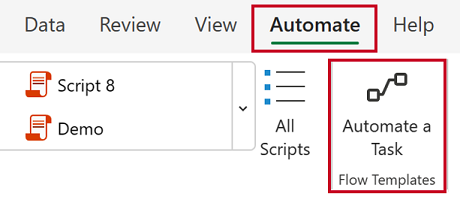
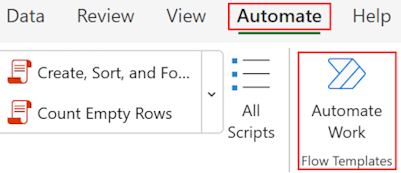
workbook

diff --git a/articles/flows-excel.md b/articles/flows-excel.md
@@ -1,7 +1,7 @@
 ---
 title: Use flows with Excel for the web
 description: Learn how to use the flows feature in Excel for the web.
-ms.date: 06/30/2023
+ms.date: 07/20/2023
 author: sbasi19
 contributors:
   - sbasi19
@@ -29,7 +29,7 @@ Here are some of the prebuilt templates you can use in Excel for the web:
 Get started using Power Automate in Excel for the web by following these steps.
 
 1. Open your Excel workbook in Excel for the web.
-1. Select **Automate** > **Automate a Task** on the toolbar. 
+1. On the toolbar, select **Automate** > **Automate Work**.
 
     :::image type="content" source="media/flows-excel/open-workbook.png" alt-text="Screnshot of the Automate a Task button on the Excel for the web toolbar.":::
 
